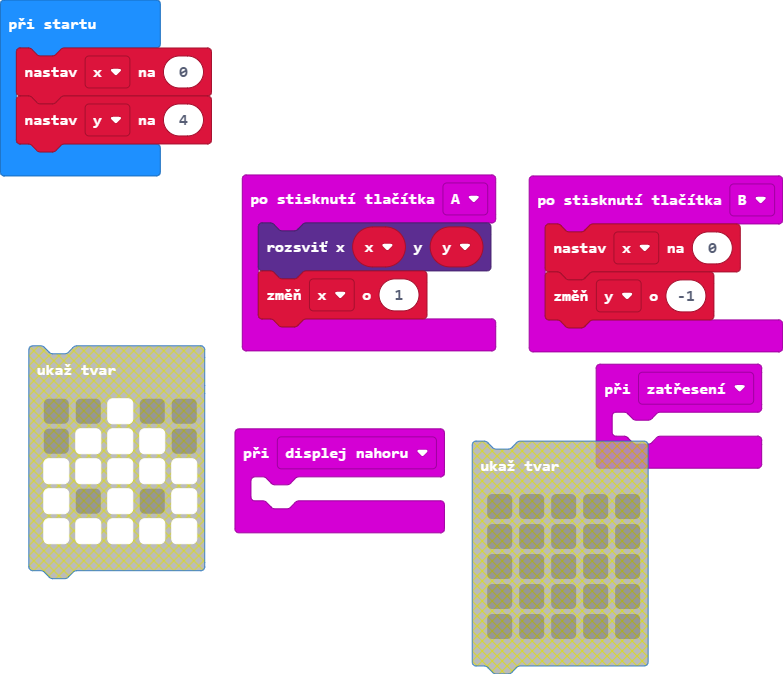
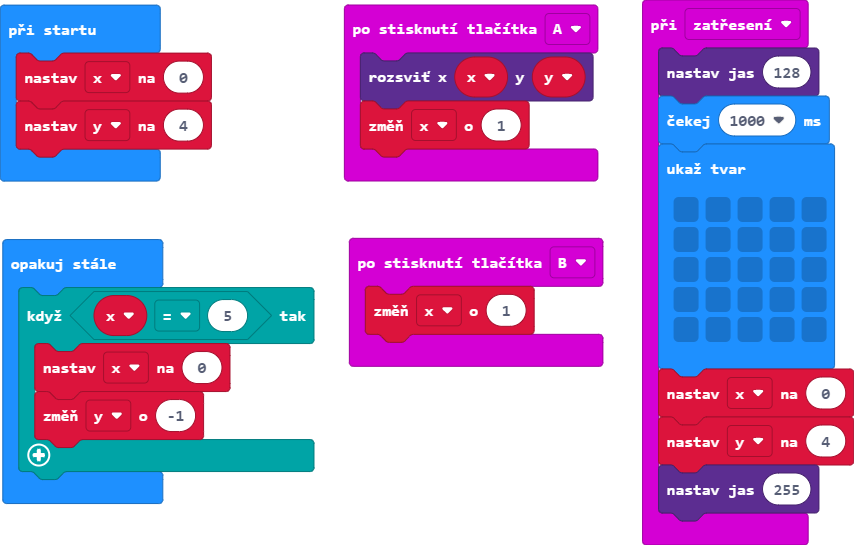
Aktualizovat pxt.json, main.blocks, main.ts

diff --git a/main.ts b/main.ts
@@ -2,17 +2,30 @@ input.onButtonPressed(Button.A, function () {
     led.plot(x, y)
     x += 1
 })
-input.onGesture(Gesture.ScreenUp, function () {
-	
-})
 input.onButtonPressed(Button.B, function () {
-    x = 0
-    y += -1
+    x += 1
 })
 input.onGesture(Gesture.Shake, function () {
-	
+    led.setBrightness(128)
+    basic.pause(1000)
+    basic.showLeds(`
+        . . . . .
+        . . . . .
+        . . . . .
+        . . . . .
+        . . . . .
+        `)
+    x = 0
+    y = 4
+    led.setBrightness(255)
 })
 let y = 0
 let x = 0
 x = 0
 y = 4
+basic.forever(function () {
+    if (x == 5) {
+        x = 0
+        y += -1
+    }
+})
